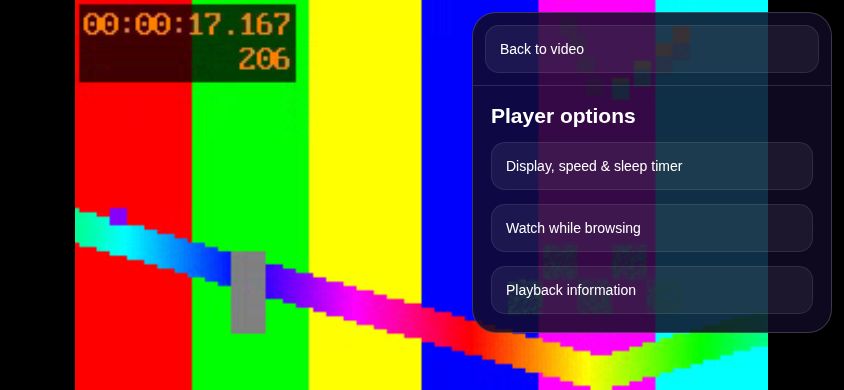
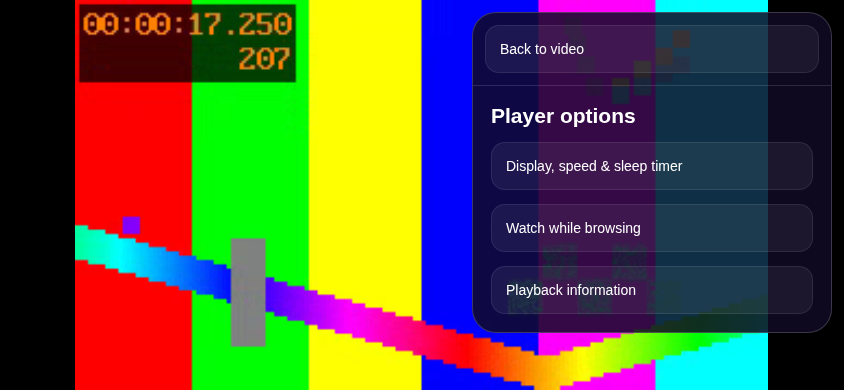
Keep mobile timeline seeking and verify gesture holds without waking hidden TV controls behind panels

diff --git a/src/Player.tsx b/src/Player.tsx
@@ -1,3 +1,4 @@
+import VideoSeekBar from './VideoSeekBar';
 import { ChromeLayer } from './PlaybackGlass';
 import { usePlaybackChrome, usePlaybackMedia } from './PlaybackChrome';
 import { usePlayerOrientation } from './usePlayerOrientation';
@@ -249,10 +250,11 @@ export default function Player({ item, resumeAt = 0, tracks = {}, onProgress, on
       <ScrollView contentContainerStyle={{ gap: 8 }}><Text style={{ color: '#fff' }}>Remember for this profile</Text>{audio.map(track => <Pressable accessibilityRole="button" key={track.id} onPress={() => chooseAudio(track)} style={{ padding: 12 }}><Text style={{ color: '#fff' }}>Audio · {track.label || track.language || 'Track'}</Text></Pressable>)}{!audio.length && <Text style={{ color: '#C4C0CF' }}>No selectable audio tracks reported.</Text>}<Pressable accessibilityRole="button" onPress={() => chooseSubtitles(null)} style={{ padding: 12 }}><Text style={{ color: '#fff' }}>Subtitles · Off</Text></Pressable>{subtitles.map(track => <Pressable accessibilityRole="button" key={track.id} onPress={() => chooseSubtitles(track)} style={{ padding: 12 }}><Text style={{ color: '#fff' }}>Subtitles · {track.label || track.language || 'Track'}</Text></Pressable>)}</ScrollView>
     </View>}
     <ChromeLayer visible={!minimized && chrome.visible} style={{ position: 'absolute', bottom: Math.max(insets.bottom, 20), left: Math.max(insets.left, 12), right: Math.max(insets.right, 12), padding: television ? 14 : 8, borderRadius: 24, backgroundColor: '#100B25C9', flexDirection: 'row', flexWrap:'wrap', gap: television ? 12 : 4, alignItems: 'center' }}>
+      {!television && item.kind!=='live' && clock.duration>0 && <VideoSeekBar position={clock.position} duration={clock.duration} onSeek={seconds => {try {player.currentTime=seconds;setClock(current=>({...current,position:seconds}));}catch {setTrackNotice('Seeking is not available for this video.');}}} />}
       <Pressable accessibilityRole="button" nativeID="tv-preferred:playback-toggle" accessibilityLabel={isPlaying ? 'Pause video' : 'Play video'} disabled={failed || advancing} onPress={() => { try { if (isPlaying) player.pause(); else { if (player.duration > 0 && player.currentTime >= player.duration - .5) player.currentTime = 0; player.play(); } } catch { setTrackNotice('Couldn’t change playback. Try again.'); } }} style={{ width: 52, height: 52, borderRadius: 26, backgroundColor: colors.mint, alignItems: 'center', justifyContent: 'center' }}><Icon name={isPlaying ? 'pause' : 'play'} size={24} /></Pressable>
       <Pressable accessibilityRole="button" accessibilityLabel="Rewind 10 seconds" disabled={status !== 'readyToPlay' || clock.duration <= 0 || advancing} onPress={() => seek(-10)} style={{ padding: 12 }}><View style={{ alignItems: 'center', gap: 2 }}><Icon name="play-back" color="#fff" /><Text style={{ color: '#fff', fontSize: 10 }}>10s</Text></View></Pressable>
       <Pressable accessibilityRole="button" accessibilityLabel="Forward 30 seconds" disabled={status !== 'readyToPlay' || clock.duration <= 0 || advancing} onPress={() => seek(30)} style={{ padding: 12 }}><View style={{ alignItems: 'center', gap: 2 }}><Icon name="play-forward" color="#fff" /><Text style={{ color: '#fff', fontSize: 10 }}>30s</Text></View></Pressable>
-      <View style={{ flex: 1, gap: 4 }}><Text style={{ color: '#fff', fontSize: 13 }}>{playbackClock(clock.position)} / {clock.duration > 0 ? playbackClock(clock.duration) : '—:—'}</Text>{!!trackNotice && <Text numberOfLines={2} style={{ color: '#FAE7C8', fontSize: 11 }}>{trackNotice}</Text>}</View>
+      <View style={{ flex: 1, gap: 4 }}><Text style={{ color: '#fff', fontSize: 13 }}>{playbackClock(clock.position)} / {clock.duration > 0 ? playbackClock(clock.duration) : '—:—'}</Text>{!!(trackNotice || orientation.notice) && <Text numberOfLines={2} style={{ color: '#FAE7C8', fontSize: 11 }}>{trackNotice || orientation.notice}</Text>}</View>
       <Pressable accessibilityRole="button" accessibilityLabel="Audio and subtitles" onPress={() => setShowTracks(value => !value)} style={{ padding: 12 }}><Icon name="options-outline" color="#fff" /></Pressable>
       {!television && <Pressable accessibilityRole="button" accessibilityLabel={fullscreen ? 'Exit full screen' : 'Full screen'} onPress={() => fullscreen ? orientation.exit() : orientation.enter()} style={{padding:12}}><Icon name={fullscreen ? 'contract-outline' : 'expand-outline'} color="#fff" /></Pressable>}
       {nextEpisode && <Pressable testID="next-episode" accessibilityRole="button" accessibilityLabel={`Next episode: ${nextEpisode.item.group} · ${nextEpisode.item.name}`} accessibilityState={{ disabled: advancing, busy: advancing }} disabled={advancing} onPress={() => { void advanceEpisode(); }} style={{ maxWidth: television ? '38%' : '100%', minHeight: 54, paddingHorizontal: 18, paddingVertical: 10, borderRadius: 18, backgroundColor: colors.mint, flexDirection: 'row', gap: 10, alignItems: 'center' }}>

diff --git a/src/VideoSeekBar.tsx b/src/VideoSeekBar.tsx
@@ -1,0 +1,22 @@
+import React, { useRef, useState } from 'react';
+import { View } from 'react-native';
+import type { GestureResponderEvent } from 'react-native';
+import Pressable from './FocusPressable';
+import { playbackClock } from './activity';
+/** Touch seeking stays inside the custom player instead of opening native fullscreen UI. */
+export default function VideoSeekBar({ position, duration, onSeek }: { position: number; duration: number; onSeek: (seconds: number) => void }) {
+  const node = useRef<React.ComponentRef<typeof Pressable>>(null);
+  const left = useRef(0);
+  const width = useRef(0);
+  const pending = useRef<number | null>(null);
+  const [preview, setPreview] = useState<number | null>(null);
+  const limit = (value: number) => Math.max(0, Math.min(value, Math.max(0, duration - .1)));
+  function target(event: GestureResponderEvent) { const {locationX, pageX} = event.nativeEvent; const x = Number.isFinite(locationX) ? locationX : pageX - left.current; return limit(width.current > 0 && Number.isFinite(x) ? x / width.current * duration : position); }
+  function finish() { if (pending.current !== null) onSeek(pending.current); pending.current = null; setPreview(null); }
+  const value = preview ?? position;
+  const percent = `${Math.max(0, Math.min(100, value / duration * 100))}%` as `${number}%`;
+  return <Pressable ref={node} accessibilityRole="adjustable" accessibilityLabel="Seek video" accessibilityHint="Tap or drag to a position. Adjust accessibility controls to move thirty seconds." accessibilityValue={{min:0,max:duration,now:value,text:`${playbackClock(value)} of ${playbackClock(duration)}`}} aria-valuemin={0} aria-valuemax={duration} aria-valuenow={value} aria-valuetext={`${playbackClock(value)} of ${playbackClock(duration)}`} accessibilityActions={[{name:'increment',label:'Forward 30 seconds'},{name:'decrement',label:'Rewind 30 seconds'}]} onAccessibilityAction={event => onSeek(limit(position + (event.nativeEvent.actionName === 'increment' ? 30 : -30)))} onLayout={event => {width.current=event.nativeEvent.layout.width;node.current?.measureInWindow(x => {left.current=x;});}} onTouchMove={event => { const next=target(event);pending.current=next;setPreview(next); }} onTouchCancel={() => { pending.current=null;setPreview(null); }} onTouchEnd={finish} onPress={event => onSeek(target(event))} style={{width:'100%',height:32,justifyContent:'center'}}>
+    <View pointerEvents="none" style={{height:4,borderRadius:2,backgroundColor:'#FFFFFF40'}}><View style={{height:4,width:percent,borderRadius:2,backgroundColor:'#B9B4F2'}} /></View>
+    <View pointerEvents="none" style={{position:'absolute',left:percent,marginLeft:-6,width:12,height:12,borderRadius:6,backgroundColor:'#EAE9EE'}} />
+  </Pressable>;
+}

diff --git a/src/releases.ts b/src/releases.ts
@@ -6,6 +6,7 @@ export const releases = [
     'Settings close after eight idle seconds. Active touches, unsaved channel changes, saving, paused playback and screen readers keep controls available.',
     'Mobile movies and live TV share onscreen controls in portrait and landscape, without switching to a separate native fullscreen player.',
     'TV wake-up consumes the first navigation key, while dedicated media keys still control playback directly.',
+    'Mobile movies retain touch timeline seeking and accessible time adjustment. Next-episode handoffs preserve the current orientation.',
   ]},
   {version:'0.6.6',date:'October 30, 2026',title:'TV playback and remote stability.',changes:[
     'TV playback options open beside a stable video surface, preserving the live session when returning from settings.',

diff --git a/scripts/playback-overlay-web-smoke.py b/scripts/playback-overlay-web-smoke.py
@@ -16,7 +16,14 @@ class Handler(http.server.SimpleHTTPRequestHandler):
    data=([{'category_id':'1','category_name':'Test cinema'}] if action in ['get_vod_categories','get_live_categories'] else [{'stream_id':1,'name':'Overlay Fixture','category_id':'1','container_extension':'mp4'}] if action=='get_vod_streams' else [] if action else {'user_info':{'auth':1,'status':'Active'}})
    body=json.dumps(data).encode();self.send_response(200);self.send_header('Content-Type','application/json');self.send_header('Content-Length',str(len(body)));self.end_headers();self.wfile.write(body)
   elif parsed.path.startswith('/movie/'):
-   body=(OUT/'fixture.mp4').read_bytes();self.send_response(200);self.send_header('Content-Type','video/mp4');self.send_header('Content-Length',str(len(body)));self.end_headers();self.wfile.write(body)
+   body=(OUT/'fixture.mp4').read_bytes();length=len(body);start=0;end=length-1;partial=self.headers.get('Range')
+   if partial:
+    first,last=partial.removeprefix('bytes=').split('-');start=int(first or '0');end=min(int(last or str(end)),end)
+   self.send_response(206 if partial else 200);self.send_header('Content-Type','video/mp4');self.send_header('Accept-Ranges','bytes');self.send_header('Content-Length',str(end-start+1))
+   if partial:self.send_header('Content-Range',f'bytes {start}-{end}/{length}')
+   self.end_headers()
+   try:self.wfile.write(body[start:end+1])
+   except (BrokenPipeError,ConnectionResetError):pass
   else:super().do_GET()
 server=http.server.ThreadingHTTPServer(('127.0.0.1',8750),Handler);threading.Thread(target=server.serve_forever,daemon=True).start()
 with sync_playwright() as p:
@@ -55,8 +62,17 @@ with sync_playwright() as p:
  assert page.get_by_role('button',name='Back to video',exact=True).is_visible(),'Paused settings disappeared'
  assert page.evaluate('window.fixtureVideo===document.querySelector("video") && window.videoLoads===0'),'Menu remounted/reloaded video'
  page.emulate_media(reduced_motion='reduce')
+ tap('Back to video');tap('Play video')
+ bar=page.get_by_label('Seek video',exact=True);box=bar.bounding_box();bar.tap(position={'x':box['width']*.45,'y':box['height']/2})
+ print('Seek check',page.locator('video').evaluate('(v)=>({time:v.currentTime,paused:v.paused,range:v.seekable.length ? [v.seekable.start(0),v.seekable.end(0)] : []})'),bar.get_attribute('aria-valuenow'),flush=True)
+ page.wait_for_function('document.querySelector("video").currentTime > 75')
+ tap('Player options');title=page.get_by_text('Player options',exact=True);box=title.bounding_box();session=page.context.new_cdp_session(page)
+ session.send('Input.dispatchTouchEvent',{'type':'touchStart','touchPoints':[{'x':box['x']+box['width']/2,'y':box['y']+box['height']/2}]})
+ page.wait_for_timeout(8600);assert page.get_by_role('button',name='Back to video',exact=True).is_visible(),'Active touch allowed idle dismissal'
+ session.send('Input.dispatchTouchEvent',{'type':'touchEnd','touchPoints':[]})
+ page.wait_for_timeout(8600);assert page.get_by_role('button',name='Back to video',exact=True).count()==0,'Settings did not dismiss after touch ended'
  assert not errors,errors
- (OUT/'web-result.json').write_text(json.dumps({'passed':['Native-engine web interface: portrait and landscape glass menus','Video time advances behind settings, same HTML video and no loadstart during menu interactions','Fit/Fill, sleep timer on/off, audio/subtitle close','Controls hide after four idle seconds; wake tap does not pause','Settings hide after eight idle seconds','Paused settings remain available','No browser runtime errors'],'scope':'Chromium using shared React player UI and local H.264 fixture; not a physical iPhone/Android decoder test.'},indent=2))
+ (OUT/'web-result.json').write_text(json.dumps({'passed':['Native-engine web interface: portrait and landscape glass menus','Video time advances behind settings, same HTML video and no loadstart during menu interactions','Fit/Fill, sleep timer on/off, audio/subtitle close','Controls hide after four idle seconds; wake tap does not pause','Settings hide after eight idle seconds','Paused settings remain available','Mobile touch seeking reaches selected time','Active touch prevents dismissal until released','No browser runtime errors'],'scope':'Chromium using shared React player UI and local H.264 fixture; not a physical iPhone/Android decoder test.'},indent=2))
  print('PASS: playback overlay web interactions',flush=True)
  browser.close()
 server.shutdown()

diff --git a/scripts/android-tv-playback-smoke.py b/scripts/android-tv-playback-smoke.py
@@ -18,7 +18,7 @@ def find(label, timeout=15, scroll=False):
  end=time.monotonic()+timeout
  while time.monotonic()<end:
   root=dump()
-  if label!='Show player controls' and REMOTE and any(n.get('content-desc')=='Show player controls' for n in root.iter('node')):
+  if label!='Show player controls' and REMOTE and any(n.get('content-desc')=='Show player controls' and n.get('focused')=='true' for n in root.iter('node')):
    remote.key(20);continue
   nodes=[n for n in root.iter('node') if label.casefold() in (n.get('content-desc') or '').casefold() or (n.get('text') or '').casefold()==label.casefold()]
   if label in ['Profile name','Server address','Username','Password','XMLTV URL','New six-digit PIN','Confirm PIN','Family PIN','Find category to protect','Backup password','Confirm backup password']: nodes=[n for n in nodes if n.get('class')=='android.widget.EditText']

diff --git a/scripts/tv-remote-driver.py b/scripts/tv-remote-driver.py
@@ -34,7 +34,7 @@ def focus(label,timeout=100):
  end=time.monotonic()+timeout;seen=collections.Counter();scan=20
  while time.monotonic()<end:
   root=tree();nodes=actions(root);current=focused(root)
-  if label!='Show player controls' and any(name(n)=='Show player controls' for n in nodes):key(20);continue
+  if label!='Show player controls' and current is not None and name(current)=='Show player controls':key(20);continue
   goals=[i for i,n in enumerate(nodes) if match(n,label)];goals.sort(key=lambda i:name(nodes[i]).casefold()!=label.casefold())
   if current is not None and goals:
    goal=nodes[goals[0]]

diff --git a/verification/playback-overlay/README.md b/verification/playback-overlay/README.md
@@ -5,7 +5,7 @@ All three editions keep playback settings on top of the video in a bounded trans
 - Playing controls hide after **4 seconds** without interaction. Tap the video, or press a TV navigation/Select/Back key, to reveal them. That first TV navigation key only wakes the controls.
 - Open settings dismiss after **8 idle seconds**. Touching/scrolling, unsaved per-channel edits, saving, paused/loading/failed playback and an enabled screen reader prevent unwanted disappearance.
 - Dedicated TV media buttons still pause/play, seek supported movies and stop playback. Back dismisses settings or track selection before leaving the video.
-- Mobile movies use the same custom overlay in portrait and landscape, instead of opening a native fullscreen controller above the React interface. PiP remains available from Player options when the device/stream supports it and no sleep timer is active.
+- Mobile movies use the same custom overlay in portrait and landscape, instead of opening a native fullscreen controller above the React interface. Movies retain a touch seek timeline and accessible thirty-second adjustments, and next-episode handoffs preserve orientation. PiP remains available from Player options when the device/stream supports it and no sleep timer is active.
 - Video views stay mounted. Menu changes do not create another live connection or replace a decoder.
 - Opacity transitions respect Reduce Motion. The panel uses translucency; it does not require a blur package.
 
